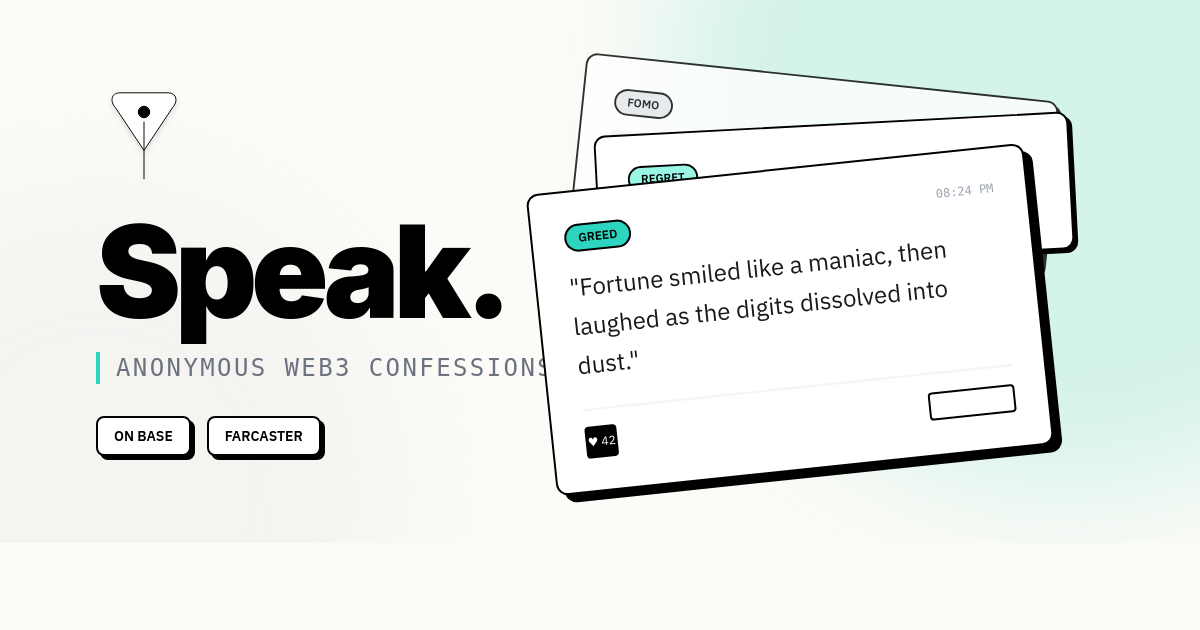
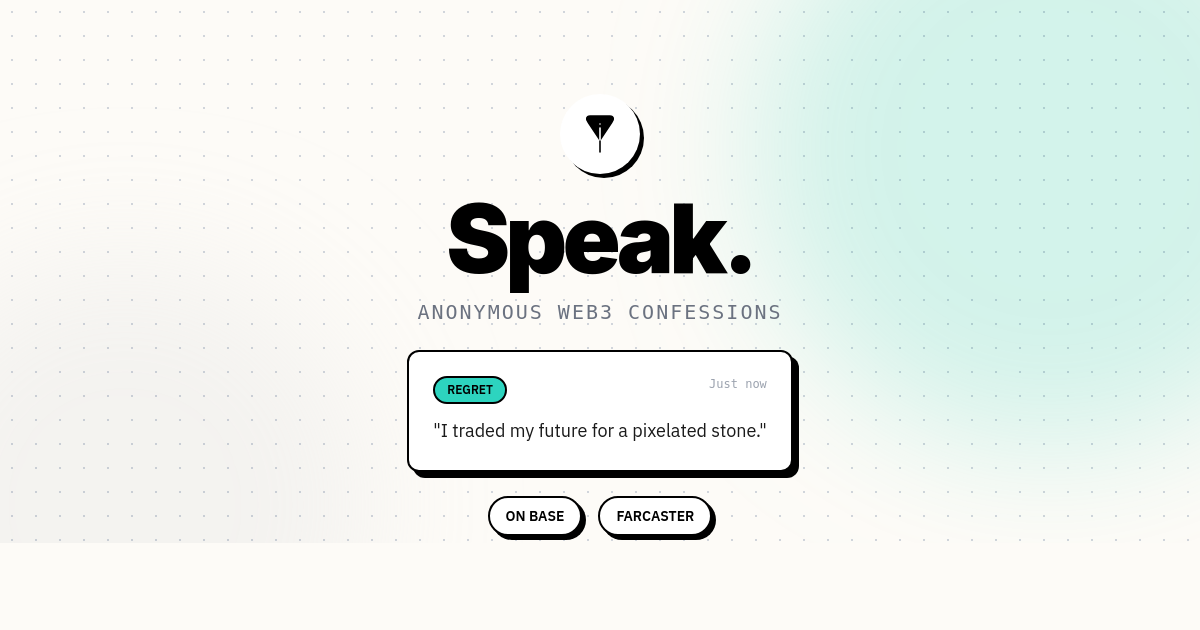
Center the preview image content for better display
Adjusts the hero-generator.html to center content, add a cyan color, modify the sketch-lg shadow, and update styling for a 1200x630 viewport, also regenerates hero.png and og-image.png.

Replit-Commit-Author: Agent
Replit-Commit-Session-Id: 427fa444-f1b2-46a0-acb2-8d38393ef550
Replit-Commit-Checkpoint-Type: full_checkpoint
Replit-Commit-Event-Id: 36b34d5a-a488-4da9-912b-ba5b3706c115
Replit-Commit-Screenshot-Url: https://storage.googleapis.com/screenshot-production-us-central1/958a21de-5d41-4c21-a489-499cd7004a25/427fa444-f1b2-46a0-acb2-8d38393ef550/PdWXLyV

diff --git a/client/public/hero-generator.html b/client/public/hero-generator.html
@@ -13,6 +13,7 @@
             colors: {
               paper: '#fdfbf7',
               teal: { DEFAULT: '#2dd4bf', dim: '#99f6e4' },
+              cyan: { DEFAULT: '#06b6d4' },
               ink: '#1a1a1a'
             },
             fontFamily: {
@@ -21,7 +22,7 @@
             },
             boxShadow: {
               'sketch': '4px 4px 0px 0px rgba(0,0,0,1)',
-              'sketch-lg': '8px 8px 0px 0px rgba(0,0,0,1)',
+              'sketch-lg': '6px 6px 0px 0px rgba(0,0,0,1)',
             }
           }
         }
@@ -29,103 +30,67 @@
     </script>
     <style>
       body {
+        margin: 0;
+        padding: 0;
+        width: 1200px;
+        height: 630px;
         background-color: #fdfbf7;
         background-image: radial-gradient(#d1d5db 1px, transparent 1px);
         background-size: 24px 24px;
-        width: 100vw;
-        height: 100vh;
         display: flex;
         align-items: center;
         justify-content: center;
         overflow: hidden;
       }
-      .rotate-y-12 { transform: rotateY(12deg) rotateZ(-2deg); }
     </style>
 </head>
 <body>
-    <!-- 
-      INSTRUCTIONS:
-      1. Open in Chrome.
-      2. Set Viewport to 1200 x 630.
-      3. Capture Screenshot.
-    -->
-    
-    <!-- Hero Container -->
-    <div class="relative w-[1200px] h-[630px] bg-paper overflow-hidden flex items-center justify-between px-24">
+    <!-- Centered Hero Container -->
+    <div class="relative w-full h-full flex flex-col items-center justify-center overflow-hidden">
         
         <!-- Background Decor -->
-        <div class="absolute top-0 right-0 w-[800px] h-[800px] bg-teal rounded-full mix-blend-multiply filter blur-3xl opacity-20 transform translate-x-1/3 -translate-y-1/3"></div>
-        <div class="absolute bottom-0 left-0 w-[600px] h-[600px] bg-gray-200 rounded-full mix-blend-multiply filter blur-3xl opacity-30 transform -translate-x-1/3 translate-y-1/3"></div>
+        <div class="absolute top-0 right-0 w-[600px] h-[600px] bg-teal rounded-full mix-blend-multiply filter blur-3xl opacity-20 transform translate-x-1/4 -translate-y-1/4"></div>
+        <div class="absolute bottom-0 left-0 w-[500px] h-[500px] bg-gray-300 rounded-full mix-blend-multiply filter blur-3xl opacity-20 transform -translate-x-1/4 translate-y-1/4"></div>
 
-        <!-- Left Side: Branding -->
-        <div class="relative z-10 max-w-lg">
-            <div class="flex items-center gap-6 mb-6">
-                <!-- Logo -->
-                 <div class="w-24 h-24 relative">
-                    <svg viewBox="0 0 100 100" fill="none" stroke="black" strokeWidth="4" strokeLinecap="round" strokeLinejoin="round" class="w-full h-full drop-shadow-md">
-                        <path d="M50 95 L50 65 L20 20 C15 15 15 5 25 5 L75 5 C85 5 85 15 80 20 L50 65" fill="white" />
-                        <path d="M50 65 L50 35" />
-                        <circle cx="50" cy="25" r="6" fill="black" />
+        <!-- Centered Content -->
+        <div class="relative z-10 flex flex-col items-center text-center">
+            <!-- Logo -->
+            <div class="w-20 h-20 mb-4 relative">
+                <div class="absolute inset-0 bg-white rounded-full border-3 border-black shadow-sketch"></div>
+                <div class="absolute inset-0 flex items-center justify-center">
+                    <svg viewBox="0 0 100 100" fill="none" stroke="black" stroke-width="4" stroke-linecap="round" stroke-linejoin="round" class="w-10 h-10">
+                        <path d="M50 95 L50 65 L20 20 C15 15 15 5 25 5 L75 5 C85 5 85 15 80 20 L50 65" fill="black" />
+                        <path d="M50 65 L50 35" stroke="white" />
+                        <circle cx="50" cy="25" r="4" fill="white" />
                     </svg>
                 </div>
             </div>
-            
-            <h1 class="text-9xl font-display font-black tracking-tighter text-black leading-none mb-4">
+
+            <h1 class="text-8xl font-display font-black tracking-tighter text-black leading-none mb-3">
               Speak.
             </h1>
-            <p class="text-2xl font-mono text-gray-500 tracking-widest uppercase border-l-4 border-teal pl-4">
+            
+            <p class="text-xl font-mono text-gray-500 tracking-widest uppercase mb-6">
               Anonymous Web3 Confessions
             </p>
-            <div class="mt-8 flex gap-4">
-                <span class="px-4 py-2 border-2 border-black rounded-lg font-bold text-sm bg-white shadow-sketch">ON BASE</span>
-                <span class="px-4 py-2 border-2 border-black rounded-lg font-bold text-sm bg-white shadow-sketch">FARCASTER</span>
-            </div>
-        </div>
 
-        <!-- Right Side: Stacked Cards Visual -->
-        <div class="relative z-10 w-[500px] h-[400px] perspective-1000">
-            
-            <!-- Card 1 (Back) -->
-            <div class="absolute top-0 right-10 w-full bg-white border-2 border-black rounded-xl p-8 shadow-sketch transform rotate-6 scale-95 opacity-80">
-                <div class="flex justify-between mb-4">
-                    <span class="px-3 py-1 bg-gray-200 border-2 border-black rounded-full text-xs font-bold">FOMO</span>
+            <!-- Confession Card Preview -->
+            <div class="bg-white border-2 border-black rounded-xl p-6 shadow-sketch-lg max-w-md mb-6">
+                <div class="flex justify-between items-start mb-3">
+                    <span class="px-3 py-1 bg-teal border-2 border-black rounded-full text-xs font-bold uppercase">Regret</span>
+                    <span class="text-xs font-mono text-gray-400">Just now</span>
                 </div>
-                <div class="h-4 bg-gray-100 rounded w-3/4 mb-3"></div>
-                <div class="h-4 bg-gray-100 rounded w-full mb-3"></div>
-                <div class="h-4 bg-gray-100 rounded w-1/2"></div>
-            </div>
-
-            <!-- Card 2 (Middle) -->
-            <div class="absolute top-12 right-5 w-full bg-white border-2 border-black rounded-xl p-8 shadow-sketch transform -rotate-3 scale-95">
-                <div class="flex justify-between mb-4">
-                    <span class="px-3 py-1 bg-teal-dim border-2 border-black rounded-full text-xs font-bold">REGRET</span>
-                </div>
-                <p class="font-sans text-xl leading-relaxed text-ink">
-                    I traded my future for a pixelated stone...
+                <p class="font-sans text-lg font-medium leading-relaxed text-ink">
+                  "I traded my future for a pixelated stone."
                 </p>
             </div>
 
-            <!-- Card 3 (Front/Hero) -->
-            <div class="absolute top-24 right-16 w-full bg-white border-2 border-black rounded-xl p-8 shadow-sketch-lg transform -rotate-6 transition-transform hover:-translate-y-2">
-                 <div class="flex justify-between items-start mb-4">
-                    <span class="px-3 py-1 bg-teal border-2 border-black rounded-full text-xs font-bold">GREED</span>
-                    <span class="text-xs font-mono text-gray-400">08:24 PM</span>
-                 </div>
-                 <p class="font-sans text-2xl font-medium leading-relaxed text-ink mb-6">
-                   "Fortune smiled like a maniac, then laughed as the digits dissolved into dust."
-                 </p>
-                 <div class="flex justify-between items-center border-t-2 border-gray-100 pt-4">
-                     <div class="flex gap-2">
-                         <div class="w-8 h-8 rounded border-2 border-black bg-black text-white flex items-center justify-center text-xs">♥ 42</div>
-                     </div>
-                     <div class="px-2 py-1 bg-cyan text-white text-xs font-bold border-2 border-black rounded flex items-center gap-1">
-                         <span>✓ Anchored</span>
-                     </div>
-                 </div>
+            <!-- Badges -->
+            <div class="flex gap-4">
+                <span class="px-4 py-2 border-2 border-black rounded-full font-bold text-sm bg-white shadow-sketch">ON BASE</span>
+                <span class="px-4 py-2 border-2 border-black rounded-full font-bold text-sm bg-white shadow-sketch">FARCASTER</span>
             </div>
-
         </div>
-
     </div>
 </body>
 </html>
